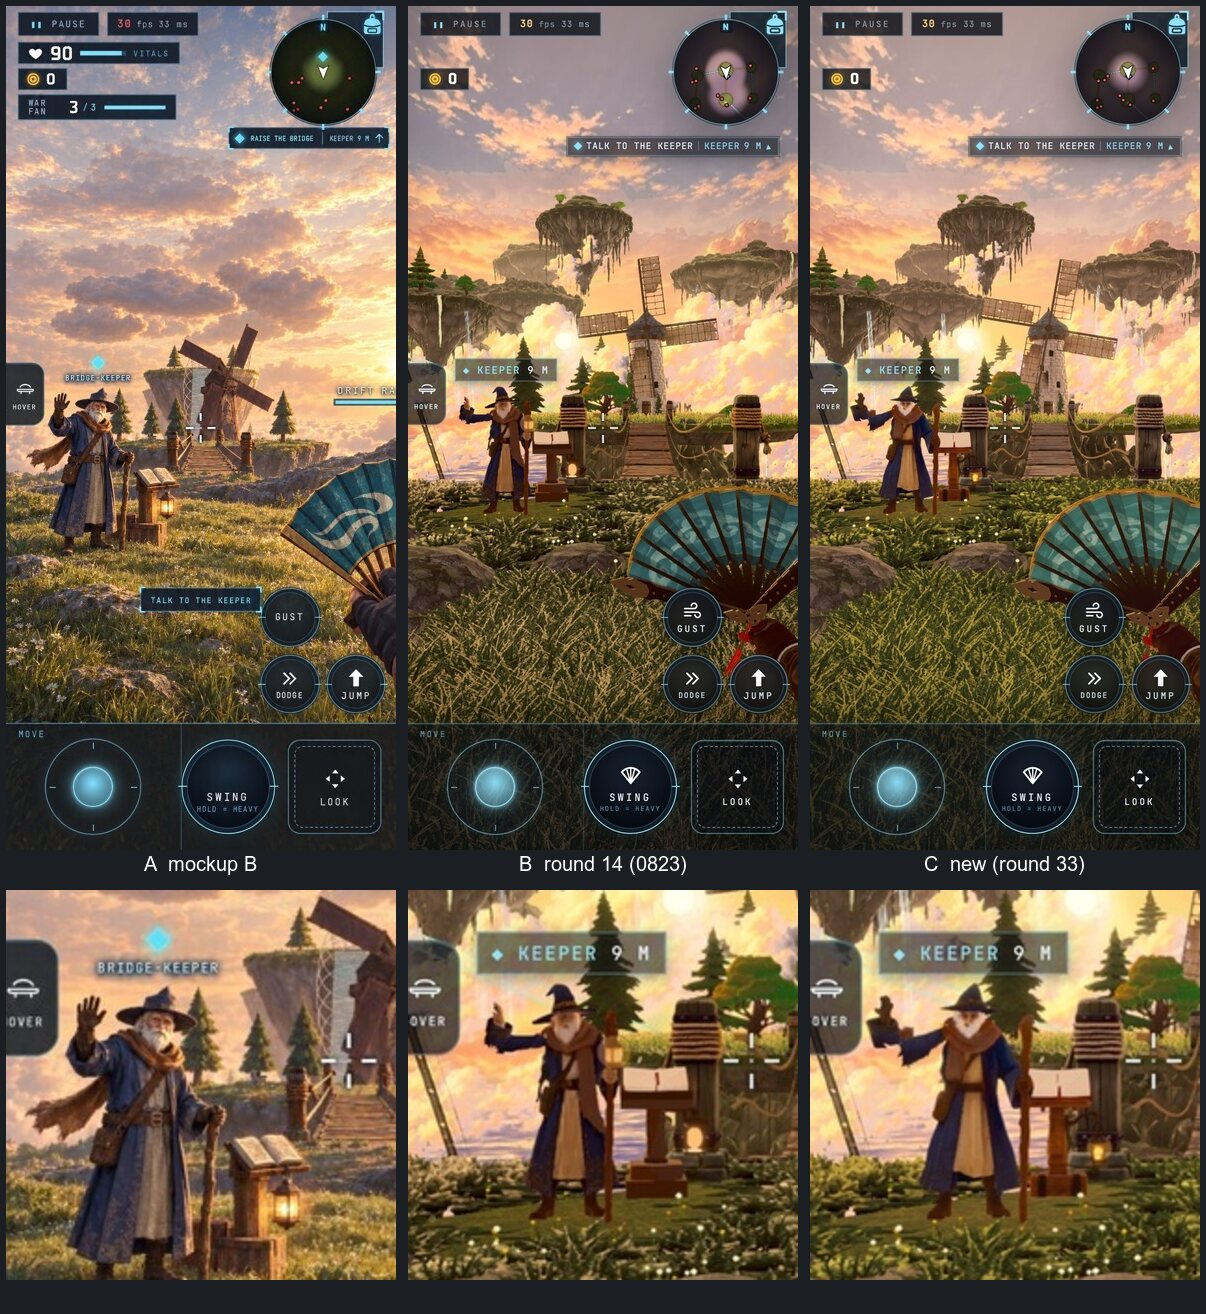
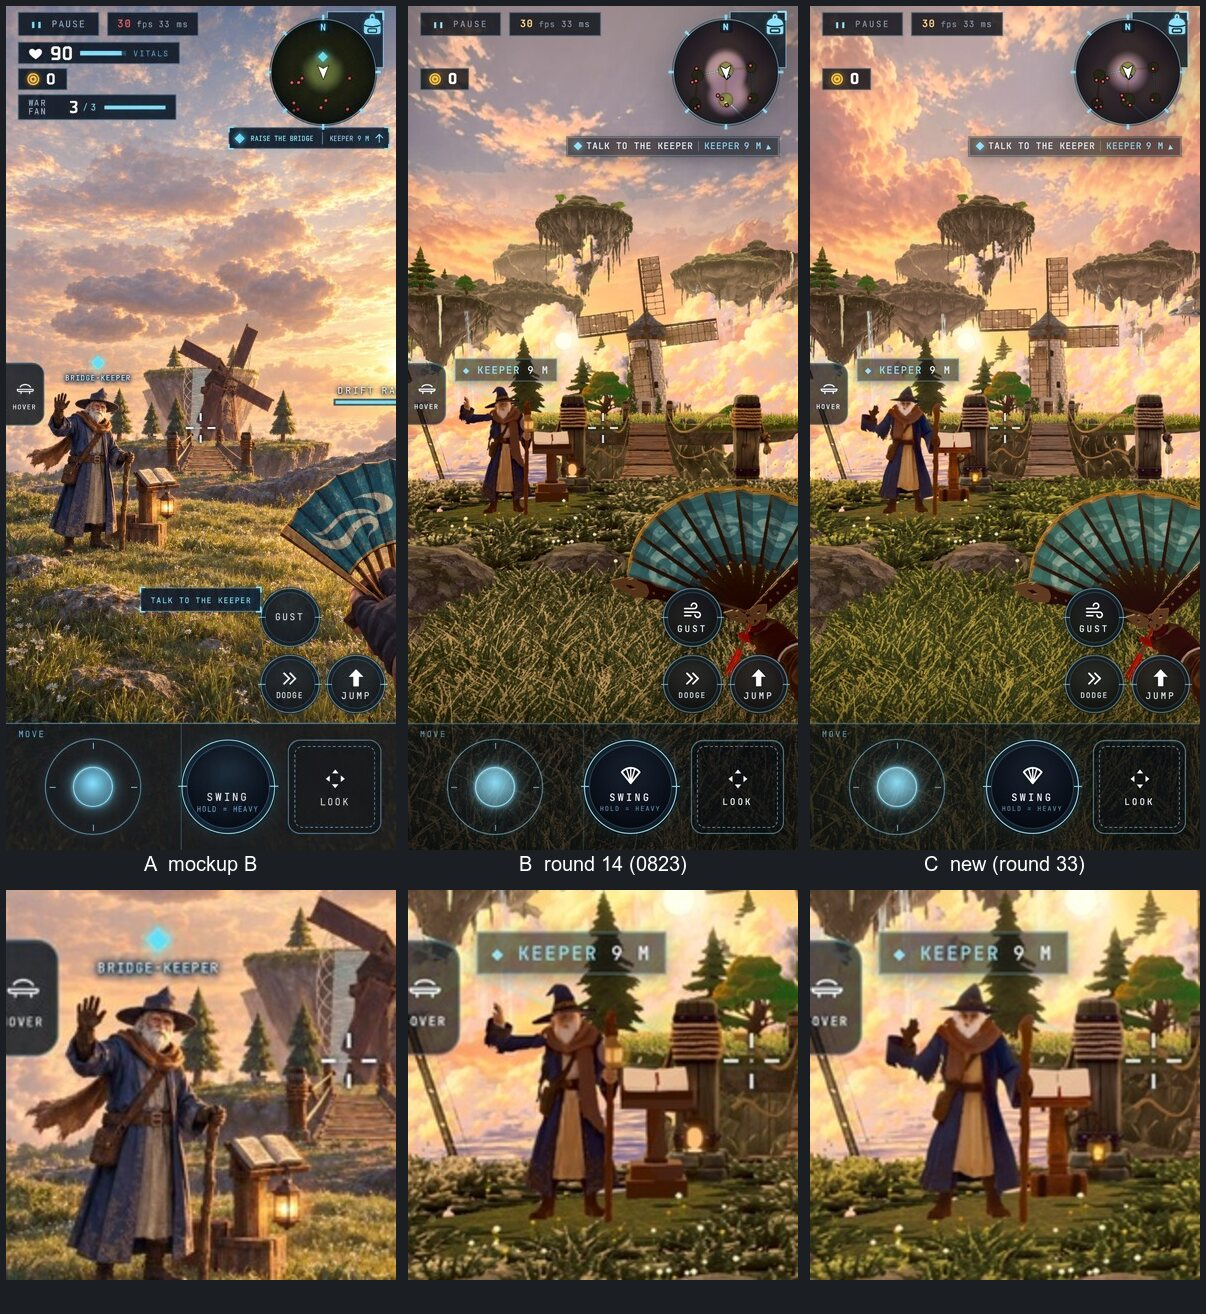
E410 Sky Reach: the keeper waves as mockup B poses it: the upper arm out and down, the forearm folded up, the open hand beside his head (the first take lifted the upper arm level and showed the bell cuff as a block); the arm poses are per-model data (KEEPER_HD.pose, the faceted fallback keeps its ow
Claude-Session: https://claude.ai/code/session_0188DaBQh3cU3bBzxR69C8us

diff --git a/src/shards/far-reach/quest/keeper.ts b/src/shards/far-reach/quest/keeper.ts
@@ -76,16 +76,23 @@ function whiten(g: BufferGeometry): void {
  * right arm held out from the coat, the hand open, the staff gripped in his left; metres once fitted to KEEPER_MODEL's
  * height, facing +z): his free right arm (−x) is every triangle outboard of a line slanting from x `a + b·y` between `y0`
  * and `y1` (measured on the fitted model: the gap between sleeve and coat runs from x −0.34 at y 0.9 to −0.22 at the
- * shoulder), its shoulder pivot, and the elbow. `rest` turns the held-out arm down toward his side while he idles. His
+ * shoulder), its shoulder pivot, and the elbow. `pose` is the arm's turns from the modelled pose (radians; shoulder out,
+ * elbow up): `rest` lowers the held-out arm toward his side while he idles; `wave` keeps the upper arm out and down and
+ * folds the forearm up so the open hand stands beside his head (mockup B); `talk` an open-hand gesture. His
  * staff carries no lantern now: it hangs from the lectern's arm (world/bookStand.ts), as in mockup B.
  */
-export const KEEPER_HD = { arm: { a: -0.506, b: 0.185, y0: 0.85, y1: 1.6 }, shoulder: [-0.25, 1.5, 0.03] as const, rest: 0.3,
+export const KEEPER_HD = { arm: { a: -0.506, b: 0.185, y0: 0.85, y1: 1.6 }, shoulder: [-0.25, 1.5, 0.03] as const,
+  pose: { rest: [-0.3, 0], wave: [0.1, 2.3], talk: [0, 0.9] },
   /**
    * the elbow (round 8, seat A: 'an open waving hand'; mockup B raises the forearm, palm out), halfway down the held-out
    * arm: the forearm is the arm past the plane through it square to `axis` (the arm's direction, shoulder to hand, in x-y)
    */
   elbow: [-0.5, 1.24, 0] as const, axis: [-0.7, -0.71] as const } as const;
-interface Made { group: Group; shoulder: Group; elbow: Group; glow: Mesh<SphereGeometry, MeshBasicMaterial> | null; rest: number }
+/** The arm's [shoulder lift, elbow bend] at idle, waving and talking (radians from the modelled pose). */
+interface Pose { rest: readonly [number, number]; wave: readonly [number, number]; talk: readonly [number, number] }
+/** The faceted keeper's arm hangs at his side: it lifts out to the side and bends up (round 8). */
+const FACETED_POSE: Pose = { rest: [0, 0], wave: [1.2, 2.0], talk: [0.9, 0.5] };
+interface Made { group: Group; shoulder: Group; elbow: Group; glow: Mesh<SphereGeometry, MeshBasicMaterial> | null; pose: Pose }
 /** The lantern's warm halo: a ball, not a Sprite (the shard's global light patch reaches every material and a sprite's vertex shader lacks `transformed`). */
 const halo = (): Mesh<SphereGeometry, MeshBasicMaterial> => new Mesh(new SphereGeometry(0.13, 12, 8), new MeshBasicMaterial({ color: 0xffb860, transparent: true, opacity: 0.2, blending: AdditiveBlending, depthWrite: false }));
 /** The textured keeper (Hunyuan3D-2's painted keeper): body + the waving right arm on its shoulder pivot, its forearm on the elbow. */
@@ -109,7 +116,7 @@ function textured(): Made | null {
   shoulder.add(new Mesh(upper.translate(-sx, -sy, -sz), material));
   elbow.position.set(ex - sx, ey - sy, ez - sz); shoulder.add(elbow);
   elbow.add(new Mesh(fore.translate(-ex, -ey, -ez), material));
-  return { group, shoulder, elbow, glow: null, rest: KEEPER_HD.rest };
+  return { group, shoulder, elbow, glow: null, pose: KEEPER_HD.pose };
 }
 
 /** The generated keeper (loop 3; `art/far-reach/round-13-loop-3/`): body + a waving right arm on a shoulder pivot, and a lantern glow. */
@@ -126,7 +133,7 @@ function generated(): Made | null {
   shoulder.add(new Mesh(arm.translate(-sx, -sy, -sz), material));
   const glow = halo(); glow.position.copy(lantern); group.add(glow);
   const elbow = new Group(); shoulder.add(elbow);
-  return { group, shoulder, elbow, glow, rest: 0 };
+  return { group, shoulder, elbow, glow, pose: FACETED_POSE };
 }
 
 /**
@@ -137,16 +144,16 @@ function generated(): Made | null {
 export function keeper(y: number): Keeper {
   const made = generated();
   if (made === null) return codeKeeper(y);
-  const { group, shoulder, elbow, glow, rest } = made;
+  const { group, shoulder, elbow, glow, pose } = made;
   group.position.set(KEEPER_AT.x, y, KEEPER_AT.z); group.rotation.y = KEEPER_AT.yaw;
   const head = new Vector3(KEEPER_AT.x, y + 1.8, KEEPER_AT.z), speaker = { talking: false };
   return { group, head, speaker, update: (t, player) => {
     const near = Math.hypot(player.x - KEEPER_AT.x, player.z - KEEPER_AT.z) < WAVE_RANGE;
     // his right arm (−x) lifts out sideways: a wave near, an open-hand gesture while he talks
     // (round 8: mockup B's wave is the upper arm out to his side and the forearm raised, palm out, not a straight raised arm)
-    // (the textured keeper's arm is modelled held out: `rest` lowers it at idle, and the lifts start from that pose)
-    const lift = speaker.talking ? 0.9 - rest * 2 + Math.sin(t * 2.2) * 0.2 : near ? 1.2 - rest * 1.6 + Math.sin(t * 3) * 0.05 : -rest;
-    const bend = speaker.talking ? 0.5 : near ? 2.0 - rest * 2 + Math.sin(t * 7) * 0.25 : 0;
+    const [l, b] = speaker.talking ? pose.talk : near ? pose.wave : pose.rest;
+    const lift = l + (speaker.talking ? Math.sin(t * 2.2) * 0.2 : near ? Math.sin(t * 3) * 0.05 : 0);
+    const bend = b + (near && !speaker.talking ? Math.sin(t * 7) * 0.25 : 0);
     shoulder.rotation.z += (-lift - shoulder.rotation.z) * 0.15;
     elbow.rotation.z += (-bend - elbow.rotation.z) * 0.15;
     // a slow breath of a turn, and the lantern's flicker

diff --git a/art/far-reach/round-33-keeper/README.md b/art/far-reach/round-33-keeper/README.md
@@ -23,7 +23,11 @@ Numbers (measured on the fitted models, the code reads them):
 - keeper: public/assets/far-reach/models/keeper-hd/keeper-hd.glb (replaced in place), 14k tris, 1024 WebP, 296 KB; fitted
   to 1.95 m. His right arm is every triangle outboard of x = -0.506 + 0.185 y between y 0.85 and 1.6 (the sleeve-coat gap
   runs from x -0.34 at y 0.9 to -0.22 at the shoulder), shoulder pivot (-0.25, 1.5, 0.03), elbow (-0.5, 1.24) with a cut
-  square to the arm (a level cut halved the wide cuff). The arm is modelled held out, so `rest` 0.3 rad lowers it at idle.
+  square to the arm (a level cut halved the wide cuff). The arm is modelled held out: at idle the shoulder lowers it
+  0.3 rad; the wave keeps the upper arm out and down (+0.1) and folds the forearm up 2.3 rad, so the open hand stands
+  beside his head with the elbow out at his chest, as in mockup B (a first take lifted the upper arm level and showed the
+  bell cuff as a block).
+- The after shots were taken on a preview with the working tree's far-reach assets, so they carry another lane's sky.
 - lectern: models/lectern-hd/lectern-hd.glb, 8k tris, 1024 WebP, 129 KB; fitted to 1.12 m (the collider's height). Desk
   plane y = 1.022 - 0.625 z (tilt 0.56 rad, front low), its centre (0, 1.006, 0.025); the hook's bottom at (0.39, 0.67, 0).
 - lantern: models/lantern-hd/lantern-hd.glb, 3k tris, 512 WebP, 68 KB; 0.42 m (mockup B: the lantern is 0.38 of the

diff --git a/docs/tasks/asks/E410.md b/docs/tasks/asks/E410.md
@@ -58,7 +58,9 @@ darker than the mockup: 94/76/75 vs 108/91/93); Codex round 13 finding 4 still s
   - Verified (preview, views.mjs): mock-B, h1 and a keeper close-up, before and after; the wave plays (the hand up,
     palm out); far-reach + prefetch tests 16/16. Boards: art/far-reach/round-33-keeper/board-b.jpg, board-close.jpg,
     turntable-{keeper,lectern,lantern}.jpg.
-**Next:** a council look at B. Open: raised, the wide bell cuff of the waving arm reads as a block at 9 m (mockup B's
+  - Second commit: the wave as mockup B poses it (the upper arm out and down, the forearm folded up, the open hand beside
+    his head); the arm poses are per-model data (KEEPER_HD.pose; the faceted fallback keeps its own).
+**Next:** a council look at B. Open: the bell cuff of the raised forearm still reads squarish up close (mockup B's
   sleeve falls back down the forearm); mockup B frames the keeper larger (19.5 % of the frame's height vs 13.6 %) because
   its camera stands nearer him, not a model size.
 **Owns:** src/shards/far-reach/quest/keeper.ts, src/shards/far-reach/world/bookStand.ts, public/assets/far-reach/models/
